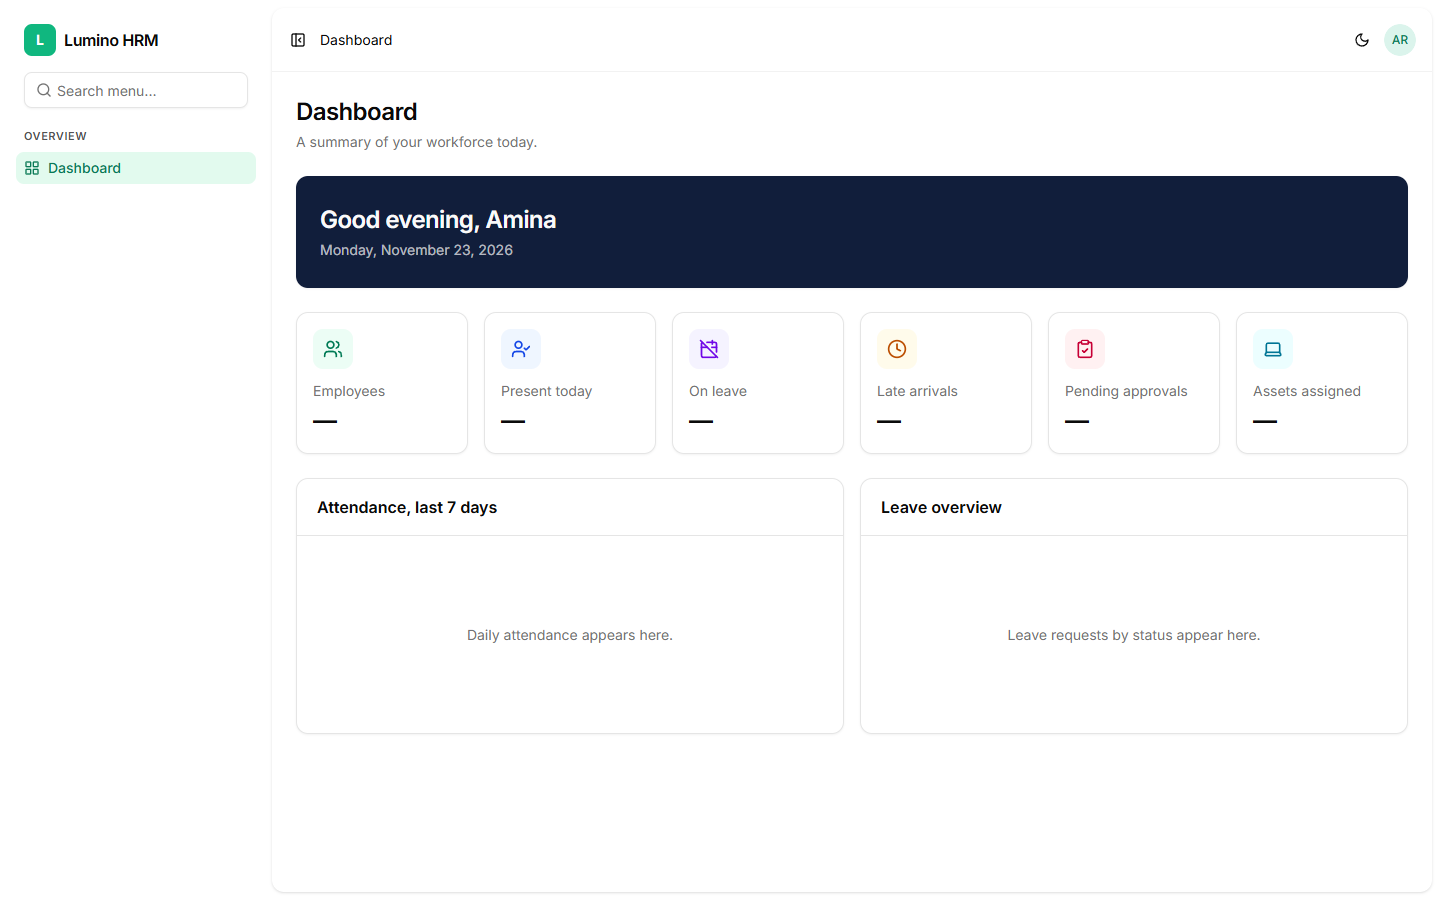
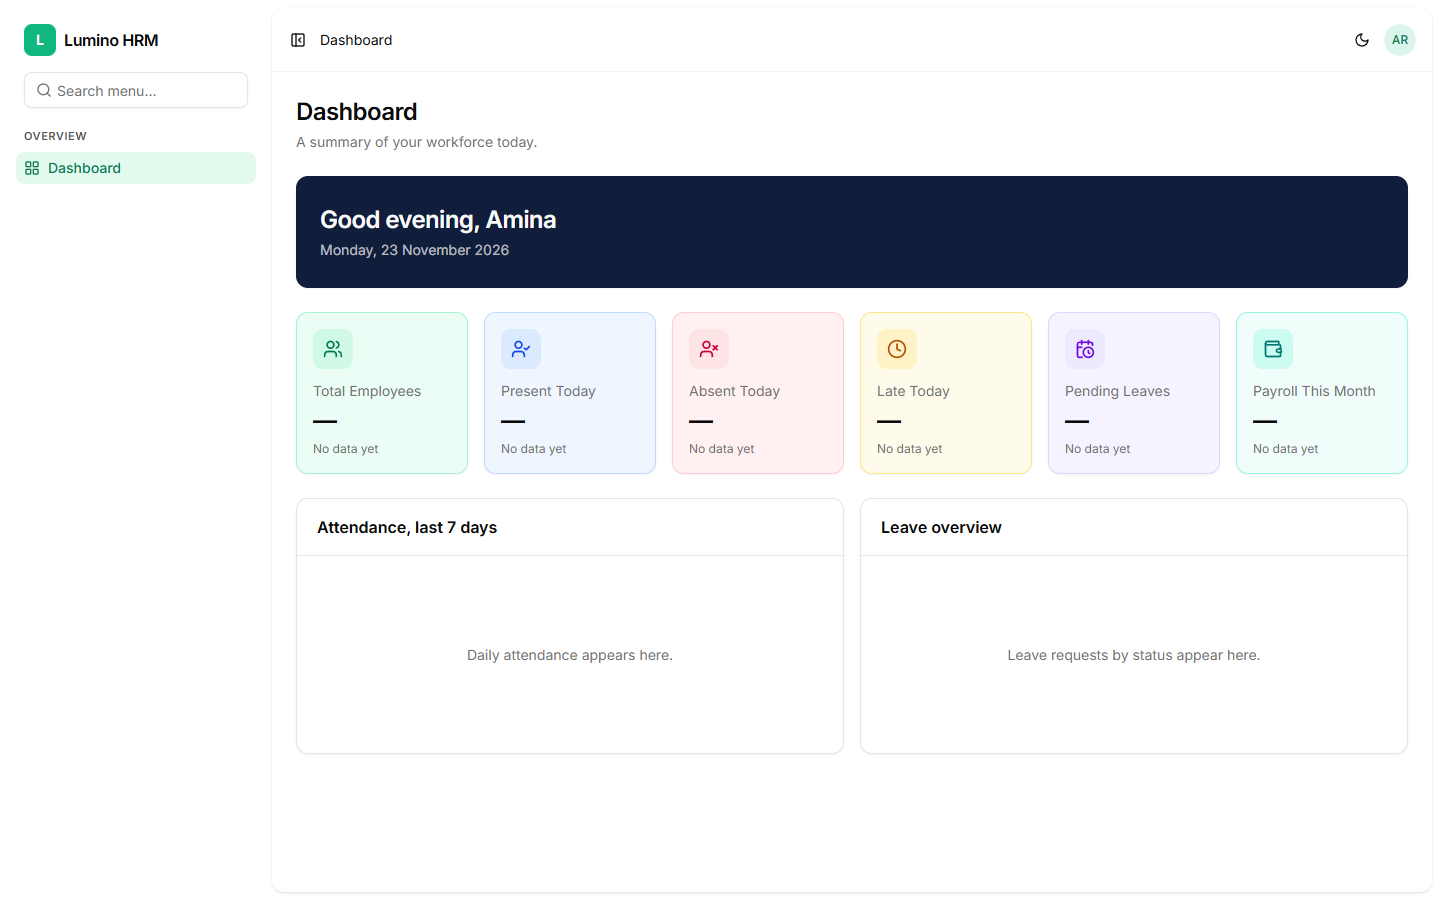
fix: spec dashboard tiles, pastel tint, app timezone for greeting

diff --git a/resources/js/pages/dashboard.tsx b/resources/js/pages/dashboard.tsx
@@ -1,52 +1,18 @@
 import { Head, usePage } from '@inertiajs/react';
-import {
-    CalendarOff,
-    Clock,
-    ClipboardCheck,
-    Laptop,
-    UserCheck,
-    Users,
-} from 'lucide-react';
-import type { LucideIcon } from 'lucide-react';
 import { PageHeader } from '@/components/hrm/page-header';
+import { useCan } from '@/hooks/use-can';
+import {
+    dashboardTiles,
+    formatLongDate,
+    greetingFor,
+    hourIn,
+    tileTones,
+} from '@/lib/dashboard';
 import { cn } from '@/lib/utils';
 import { dashboard } from '@/routes';
 
 // Placeholder frame: real figures arrive with the attendance, leave, payroll
 // and asset modules. Until then every tile shows a dash.
-const tiles: { label: string; icon: LucideIcon; tone: string }[] = [
-    {
-        label: 'Employees',
-        icon: Users,
-        tone: 'bg-emerald-50 text-emerald-700 dark:bg-emerald-500/15 dark:text-emerald-300',
-    },
-    {
-        label: 'Present today',
-        icon: UserCheck,
-        tone: 'bg-blue-50 text-blue-700 dark:bg-blue-500/15 dark:text-blue-300',
-    },
-    {
-        label: 'On leave',
-        icon: CalendarOff,
-        tone: 'bg-violet-50 text-violet-700 dark:bg-violet-500/15 dark:text-violet-300',
-    },
-    {
-        label: 'Late arrivals',
-        icon: Clock,
-        tone: 'bg-amber-50 text-amber-700 dark:bg-amber-500/15 dark:text-amber-300',
-    },
-    {
-        label: 'Pending approvals',
-        icon: ClipboardCheck,
-        tone: 'bg-rose-50 text-rose-700 dark:bg-rose-500/15 dark:text-rose-300',
-    },
-    {
-        label: 'Assets assigned',
-        icon: Laptop,
-        tone: 'bg-cyan-50 text-cyan-700 dark:bg-cyan-500/15 dark:text-cyan-300',
-    },
-];
-
 const cards = [
     {
         title: 'Attendance, last 7 days',
@@ -55,24 +21,13 @@ const cards = [
     { title: 'Leave overview', note: 'Leave requests by status appear here.' },
 ];
 
-function greeting(hour: number): string {
-    if (hour < 12) {
-        return 'Good morning';
-    }
-
-    return hour < 17 ? 'Good afternoon' : 'Good evening';
-}
-
 export default function Dashboard() {
-    const { auth } = usePage().props;
+    const { auth, app } = usePage().props;
+    const can = useCan();
     const now = new Date();
     const firstName = auth.user.name.trim().split(/\s+/)[0] ?? '';
-    const today = now.toLocaleDateString(undefined, {
-        weekday: 'long',
-        day: 'numeric',
-        month: 'long',
-        year: 'numeric',
-    });
+    const today = formatLongDate(now, app.timezone);
+    const tiles = dashboardTiles(can('payroll.view'));
 
     return (
         <>
@@ -85,7 +40,7 @@ export default function Dashboard() {
 
                 <section className="rounded-xl bg-banner px-6 py-7 text-banner-foreground shadow-xs">
                     <h2 className="text-2xl font-semibold tracking-tight">
-                        {greeting(now.getHours())}, {firstName}
+                        {greetingFor(hourIn(now, app.timezone))}, {firstName}
                     </h2>
                     <p className="mt-1 text-sm text-banner-foreground/70">
                         {today}
@@ -96,15 +51,18 @@ export default function Dashboard() {
                     aria-label="Key figures"
                     className="grid grid-cols-2 gap-4 md:grid-cols-3 xl:grid-cols-6"
                 >
-                    {tiles.map(({ label, icon: Icon, tone }) => (
+                    {tiles.map(({ label, icon: Icon, color }) => (
                         <div
                             key={label}
-                            className="rounded-xl border bg-card p-4 shadow-xs"
+                            className={cn(
+                                'rounded-xl border p-4 shadow-xs',
+                                tileTones[color].tile,
+                            )}
                         >
                             <div
                                 className={cn(
                                     'flex size-10 items-center justify-center rounded-lg',
-                                    tone,
+                                    tileTones[color].icon,
                                 )}
                             >
                                 <Icon className="size-5" aria-hidden="true" />
@@ -112,11 +70,11 @@ export default function Dashboard() {
                             <p className="mt-3 text-sm text-muted-foreground">
                                 {label}
                             </p>
-                            <p
-                                className="mt-1 text-2xl font-semibold"
-                                aria-label="No data yet"
-                            >
-                                —
+                            <p className="mt-1 text-2xl font-semibold">
+                                <span aria-label="No data yet">—</span>
+                            </p>
+                            <p className="mt-1 text-xs text-muted-foreground">
+                                No data yet
                             </p>
                         </div>
                     ))}

diff --git a/resources/js/lib/dashboard.ts b/resources/js/lib/dashboard.ts
@@ -1,0 +1,97 @@
+import {
+    CalendarClock,
+    Clock,
+    UserCheck,
+    UserX,
+    Users,
+    Wallet,
+    WalletCards,
+} from 'lucide-react';
+import type { LucideIcon } from 'lucide-react';
+
+export type TileColor = 'green' | 'blue' | 'rose' | 'amber' | 'violet' | 'teal';
+
+// Soft tinted tile: background and border from its own colour, icon square a
+// little stronger. Dark mode uses a low-opacity tint over the dark surface.
+// Shared so later pages can reuse the same palette.
+export const tileTones: Record<TileColor, { tile: string; icon: string }> = {
+    green: {
+        tile: 'border-emerald-200 bg-emerald-50 dark:border-emerald-500/20 dark:bg-emerald-500/10',
+        icon: 'bg-emerald-100 text-emerald-700 dark:bg-emerald-500/20 dark:text-emerald-300',
+    },
+    blue: {
+        tile: 'border-blue-200 bg-blue-50 dark:border-blue-500/20 dark:bg-blue-500/10',
+        icon: 'bg-blue-100 text-blue-700 dark:bg-blue-500/20 dark:text-blue-300',
+    },
+    rose: {
+        tile: 'border-rose-200 bg-rose-50 dark:border-rose-500/20 dark:bg-rose-500/10',
+        icon: 'bg-rose-100 text-rose-700 dark:bg-rose-500/20 dark:text-rose-300',
+    },
+    amber: {
+        tile: 'border-amber-200 bg-amber-50 dark:border-amber-500/20 dark:bg-amber-500/10',
+        icon: 'bg-amber-100 text-amber-700 dark:bg-amber-500/20 dark:text-amber-300',
+    },
+    violet: {
+        tile: 'border-violet-200 bg-violet-50 dark:border-violet-500/20 dark:bg-violet-500/10',
+        icon: 'bg-violet-100 text-violet-700 dark:bg-violet-500/20 dark:text-violet-300',
+    },
+    teal: {
+        tile: 'border-teal-200 bg-teal-50 dark:border-teal-500/20 dark:bg-teal-500/10',
+        icon: 'bg-teal-100 text-teal-700 dark:bg-teal-500/20 dark:text-teal-300',
+    },
+};
+
+export type DashboardTile = {
+    label: string;
+    icon: LucideIcon;
+    color: TileColor;
+};
+
+/** Spec 9.1 tiles; the sixth depends on whether the user may see payroll. */
+export function dashboardTiles(canViewPayroll: boolean): DashboardTile[] {
+    return [
+        { label: 'Total Employees', icon: Users, color: 'green' },
+        { label: 'Present Today', icon: UserCheck, color: 'blue' },
+        { label: 'Absent Today', icon: UserX, color: 'rose' },
+        { label: 'Late Today', icon: Clock, color: 'amber' },
+        { label: 'Pending Leaves', icon: CalendarClock, color: 'violet' },
+        canViewPayroll
+            ? { label: 'Payroll This Month', icon: Wallet, color: 'teal' }
+            : { label: 'Leave Balance', icon: WalletCards, color: 'teal' },
+    ];
+}
+
+/** Morning 05:00-11:59, afternoon 12:00-16:59, evening otherwise. */
+export function greetingFor(
+    hour: number,
+): 'Good morning' | 'Good afternoon' | 'Good evening' {
+    if (hour >= 5 && hour < 12) {
+        return 'Good morning';
+    }
+
+    return hour >= 12 && hour < 17 ? 'Good afternoon' : 'Good evening';
+}
+
+/** Hour of day (0-23) of an instant in the given IANA timezone. */
+export function hourIn(date: Date, timeZone: string): number {
+    const hour = new Intl.DateTimeFormat('en-GB', {
+        hour: 'numeric',
+        hourCycle: 'h23',
+        timeZone,
+    }).format(date);
+
+    return Number(hour);
+}
+
+/** e.g. "Monday, 23 November 2026", in the given timezone. */
+export function formatLongDate(date: Date, timeZone: string): string {
+    return new Intl.DateTimeFormat('en-GB', {
+        weekday: 'long',
+        day: 'numeric',
+        month: 'long',
+        year: 'numeric',
+        timeZone,
+    })
+        .format(date)
+        .replace(/^(\w+) /, '$1, ');
+}

diff --git a/resources/js/lib/dashboard.test.ts b/resources/js/lib/dashboard.test.ts
@@ -1,0 +1,62 @@
+import { describe, expect, test } from 'vitest';
+import {
+    dashboardTiles,
+    formatLongDate,
+    greetingFor,
+    hourIn,
+} from '@/lib/dashboard';
+
+describe('greetingFor', () => {
+    test.each([
+        [0, 'Good evening'],
+        [4, 'Good evening'],
+        [5, 'Good morning'],
+        [11, 'Good morning'],
+        [12, 'Good afternoon'],
+        [16, 'Good afternoon'],
+        [17, 'Good evening'],
+        [23, 'Good evening'],
+    ])('hour %i', (hour, expected) => {
+        expect(greetingFor(hour)).toBe(expected);
+    });
+});
+
+describe('dashboardTiles', () => {
+    const base = [
+        'Total Employees',
+        'Present Today',
+        'Absent Today',
+        'Late Today',
+        'Pending Leaves',
+    ];
+
+    test('with payroll.view the sixth tile is Payroll This Month', () => {
+        expect(dashboardTiles(true).map((t) => t.label)).toEqual([
+            ...base,
+            'Payroll This Month',
+        ]);
+    });
+
+    test('without payroll.view the sixth tile is Leave Balance', () => {
+        const labels = dashboardTiles(false).map((t) => t.label);
+        expect(labels).toEqual([...base, 'Leave Balance']);
+        expect(labels).not.toContain('Payroll This Month');
+    });
+});
+
+describe('app timezone', () => {
+    // 2026-11-23 20:30 UTC is already Tuesday 01:30 in Karachi (UTC+5).
+    const instant = new Date('2026-11-23T20:30:00Z');
+
+    test('hour is read in the given timezone', () => {
+        expect(hourIn(instant, 'Asia/Karachi')).toBe(1);
+        expect(hourIn(instant, 'UTC')).toBe(20);
+    });
+
+    test('date is a fixed day-month-year long format', () => {
+        expect(formatLongDate(instant, 'Asia/Karachi')).toBe(
+            'Tuesday, 24 November 2026',
+        );
+        expect(formatLongDate(instant, 'UTC')).toBe('Monday, 23 November 2026');
+    });
+});

diff --git a/resources/js/types/global.d.ts b/resources/js/types/global.d.ts
@@ -10,6 +10,7 @@ declare module '@inertiajs/core' {
     export interface InertiaConfig {
         sharedPageProps: {
             name: string;
+            app: { timezone: string };
             auth: Auth;
             sidebarOpen: boolean;
             [key: string]: unknown;

diff --git a/tests/Feature/DashboardShellTest.php b/tests/Feature/DashboardShellTest.php
@@ -11,3 +11,8 @@ it('never mentions the reference product', function () {
     $files = collect(File::allFiles(resource_path()))->merge(File::allFiles(app_path()));
     expect($files->filter(fn ($f) => str_contains(strtolower($f->getContents()), 'workdo')))->toBeEmpty();
 });
+
+it('shares the app timezone as an object that later settings can extend', function () {
+    $this->actingAs(userWithRole('employee'))->get('/dashboard')
+        ->assertInertia(fn ($p) => $p->where('app.timezone', config('app.timezone')));
+});

diff --git a/app/Http/Middleware/HandleInertiaRequests.php b/app/Http/Middleware/HandleInertiaRequests.php
@@ -38,6 +38,9 @@ class HandleInertiaRequests extends Middleware
         return [
             ...parent::share($request),
             'name' => config('app.name'),
+            'app' => [
+                'timezone' => config('app.timezone'),
+            ],
             'auth' => [
                 'user' => $request->user(),
                 'role' => $request->user()?->getRoleNames()->first() ?? '',
